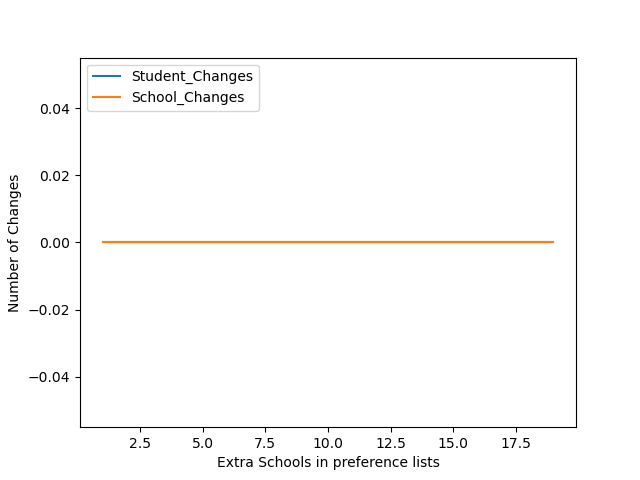
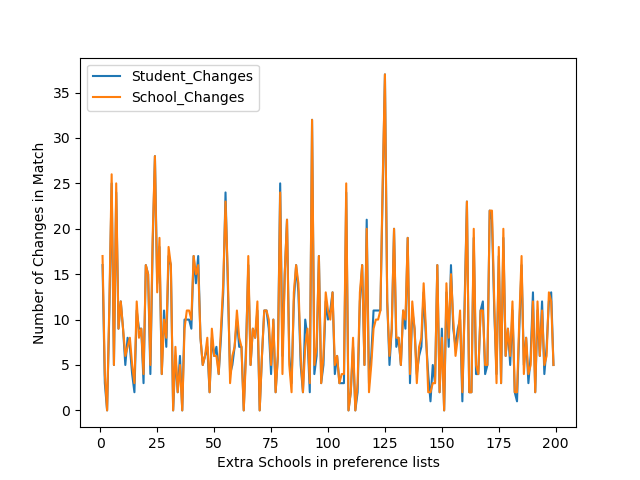
Added function to compute change on rank

diff --git a/Code/real_change_on_rank.py b/Code/real_change_on_rank.py
@@ -22,8 +22,68 @@ def changeMatch(student_sp, school_sp, student_sp_2, school_sp_2):
     total_student_changes = sum(difference_student)
     total_school_changes = sum(difference_school)
 
-    return total_student_changes, total_school_changes
+    return total_student_changes, total_school_changes, difference_student, difference_school
 
+def averageTrueRankPartnersModified(student_spouse, school_spouse, student_preferences, school_preferences, student_preferences_2, school_preferences_2, differences_students, differences_schools, modified_candidates):
+    '''
+    Function that computes the average rank of partners in the stable match
+    INPUT:
+        student_spouse: list with stable partners for students
+        school_spouse: list with stable partners for schools
+        student_preferences: dictionary with the list of preferences for each one of the students
+        school_preferences: dictionary with the list of preferences for each one of the schools
+        modified_candidates: list with students that received advice from a counselor
+    Output: 
+        school_average_rank: average rank of partners for schools in the stable match
+        candidates_average_rank: average rank of partners for modified students in the stable match
+        noncandidates_average_rank: average rank of partners for non-modified students in the stable match
+    '''    
+    student_ranks = {}
+    school_ranks = {}
+
+    for student, prefs in student_preferences.items():
+        if differences_students[student] == 0:
+            if student_spouse[student] == None:
+                student_rank_unmatched = len(student_preferences[student]) + 1
+                student_ranks[student] = student_rank_unmatched
+            else:
+                student_ranks[student] = prefs.index(student_spouse[student]) + 1
+        else:
+            if student_spouse[student] == None:
+                student_rank_unmatched = len(student_preferences_2[student]) + 1
+                student_ranks[student] = student_rank_unmatched
+            else:
+                prefs_2 = student_preferences_2[student]
+                student_ranks[student] = prefs_2.index(student_spouse[student]) + 1
+    
+    for school, prefs in school_preferences.items():
+        if differences_schools[school] == 0:
+            if school_spouse[school] == None:
+                if school_preferences[school] != None:
+                    school_rank_unmatched = len(school_preferences[school]) + 1
+                    school_ranks[school] = school_rank_unmatched
+                else:
+                    skip
+            else:
+                school_ranks[school] = prefs.index(school_spouse[school]) + 1
+        else:
+            if school_spouse[school] == None:
+                school_rank_unmatched = len(school_preferences_2[school]) + 1
+                school_ranks[school] = school_rank_unmatched
+            else:
+                prefsS_2 = school_preferences_2[school]
+                school_ranks[school] = prefsS_2.index(school_spouse[school]) + 1
+
+
+    noncandidates = list(set(student_preferences.keys()).difference(modified_candidates)) 
+    candidate_ranks = {cand: student_ranks[cand] for cand in modified_candidates}
+    candidates_average_rank = sum(candidate_ranks.values())/len(modified_candidates)    
+    noncandidate_ranks = {cand: student_ranks[cand] for cand in noncandidates}
+    noncandidates_average_rank = sum(noncandidate_ranks.values())/len(noncandidates)
+
+    school_average_rank = sum(school_ranks.values())/len(list(school_preferences.keys()))
+
+    return school_average_rank, candidates_average_rank, noncandidates_average_rank
 
 def simulationTrueChange(n_students, n_schools, student_pref_sizes, school_pref_size, students_to_modify, schools_to_add, counselor_confidence, iter):
     '''
@@ -46,10 +106,18 @@ def simulationTrueChange(n_students, n_schools, student_pref_sizes, school_pref_
     student_change = {}
     school_change = {}
 
+    rank_candidates = {}
+    rank_school = {}
+    rank_noncandidates = {}
+
     for extra_schools in schools_to_add:
         print('simulating with addittion to preferences of : ' + str(extra_schools))
         num_student_sp_changes = []
         num_school_sp_changes = []
+
+        candidate_average_ranks = []
+        school_average_ranks = []
+        noncandidates_average_ranks = []
 
         for i in range(iter):
             if i % 10 == 0:
@@ -59,15 +127,21 @@ def simulationTrueChange(n_students, n_schools, student_pref_sizes, school_pref_
             student_pref_2, school_pref_2, candidates = cm.counselorIncreasePreferences(students_to_modify, extra_schools, student_pref, school_pref, counselor_confidence)
             student_sp, school_sp = cm.galeShapleyModified(n_students, n_schools, student_pref, school_pref)
             student_sp_2, school_sp_2 = cm.galeShapleyModified(n_students, n_schools, student_pref_2, school_pref_2)
-            print(student_sp==student_sp_2)
-            print(school_sp==student_sp_2)
 
-            total_student_ch, total_school_ch = changeMatch(student_sp, school_sp, student_sp_2, school_sp_2)
-
+            total_student_ch, total_school_ch, diff_student, diff_school = changeMatch(student_sp, school_sp, student_sp_2, school_sp_2)
             num_student_sp_changes.append(total_student_ch)
             num_school_sp_changes.append(total_school_ch)
+
+            school_average_r, candidate_av_rank, noncandidates_av_rank = averageTrueRankPartnersModified(student_sp_2, school_sp_2, student_pref, school_pref, student_pref_2, school_pref_2, diff_student, diff_school, candidates)
+            candidate_average_ranks.append(candidate_av_rank)
+            school_average_ranks.append(school_average_r)
+            noncandidates_average_ranks.append(noncandidates_av_rank)
+            
+        rank_school[extra_schools] = sum(school_average_ranks)/iter
+        rank_candidates[extra_schools] = sum(candidate_average_ranks)/iter
+        rank_noncandidates[extra_schools] = sum(noncandidates_average_ranks)/iter
 
         student_change[extra_schools] = sum(num_student_sp_changes)/iter
         school_change[extra_schools] = sum(num_school_sp_changes)/iter
         
-    return student_change, school_change
+    return student_change, school_change, rank_school, rank_candidates, rank_noncandidates

diff --git a/Code/simulations.py b/Code/simulations.py
@@ -55,25 +55,41 @@ plt.savefig('D:/Documents/CDO/CDO_project/Figures/rank_schools_counselors_2.png'
 '''
 
 
-schools_extra = list(range(1,20,1))
+schools_extra = list(range(1,300,5))
 student_counselor = 1
 counselor_conf = .7
-student_total_change, school_total_change = rc.simulationTrueChange(1000, 1001, 12, 1000, student_counselor, schools_extra, counselor_conf, 1)
+student_total_change, school_total_change, ranks_schools, ranks_candidates, ranks_noncandidates = rc.simulationTrueChange(1000, 1001, 12, 1000, student_counselor, schools_extra, counselor_conf, 50)
 
 print(student_total_change)
 print(school_total_change)
 
-'''
+print(ranks_schools)
+print(ranks_candidates)
+print(ranks_noncandidates)
+
 lists2 = sorted(student_total_change.items()) 
 lists3 = sorted(school_total_change.items())
 x2, y2 = zip(*lists2)
 x3, y3 = zip(*lists3)
+plt.figure(1)
 plt.plot(x2, y2, label='Student_Changes')
 plt.plot(x3, y3, label='School_Changes')
 plt.xlabel("Extra Schools in preference lists")
-plt.ylabel("Number of Changes")
+plt.ylabel("Number of Changes in Match")
 plt.legend(loc="upper left")
 plt.savefig('D:/Documents/CDO/CDO_project/Figures/true_change_spouse.png')
-'''
+
+
+lists1 = sorted(ranks_schools.items()) # sorted by key, return a list of tuples
+x1, y1 = zip(*lists1) # unpack a list of pairs into two tuples
+lists3 = sorted(ranks_noncandidates.items())
+x3, y3 = zip(*lists3)
+plt.figure(2)
+plt.plot(x1, y1, label='Rank_Schools')
+plt.plot(x3, y3, label='Rank_Students')
+plt.xlabel("Extra Schools in preference list")
+plt.ylabel("Average Rank")
+plt.legend(loc="upper left")
+plt.savefig('D:/Documents/CDO/CDO_project/Figures/truerank_counselor_onestudent.png')
 
 print('code succesfull')
